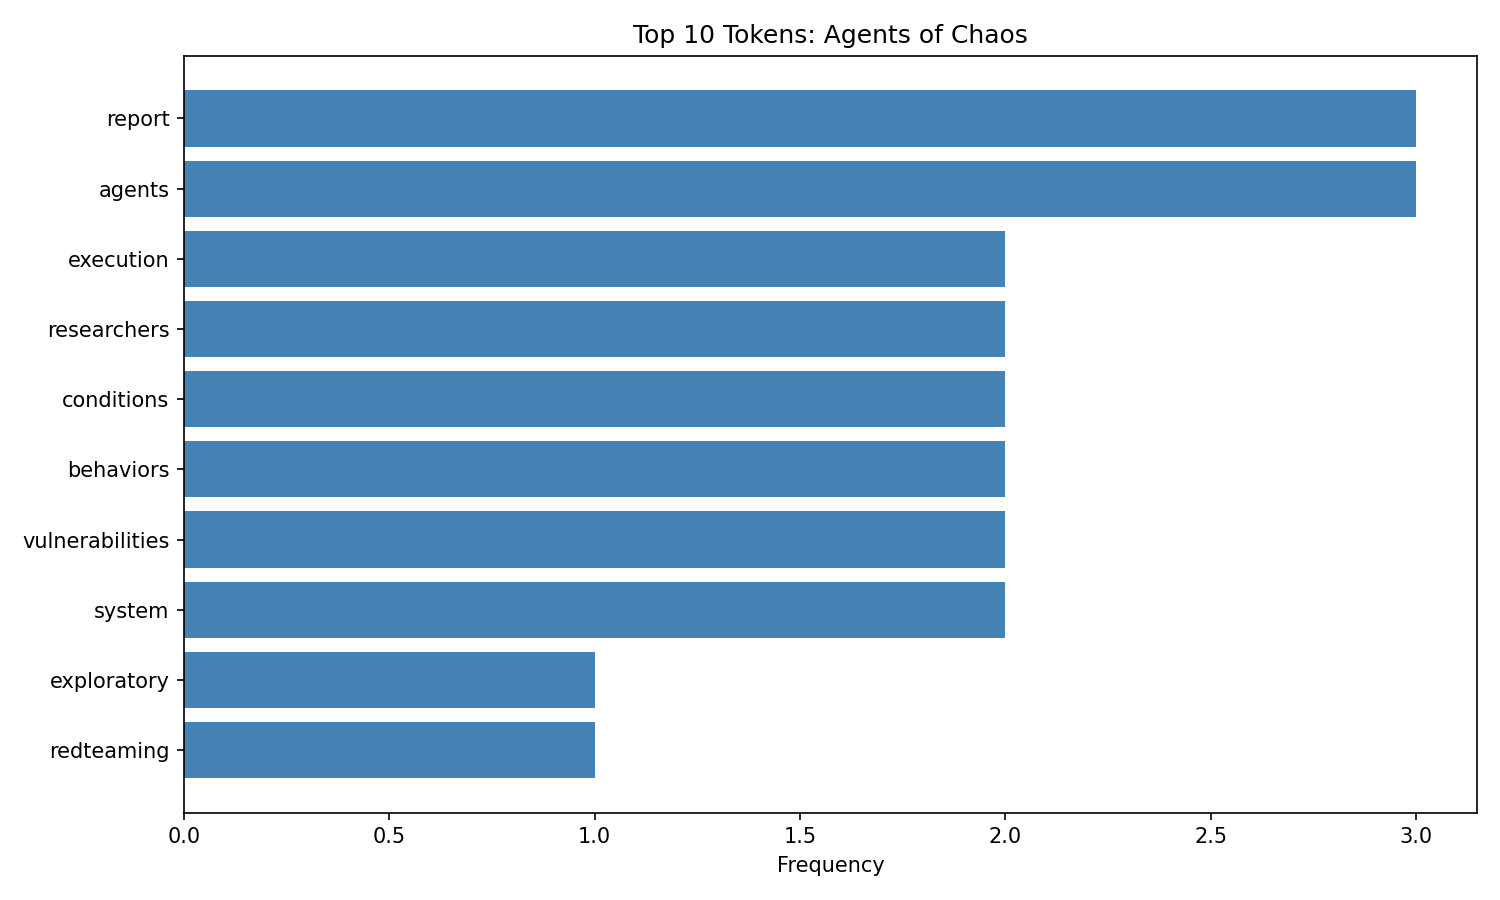
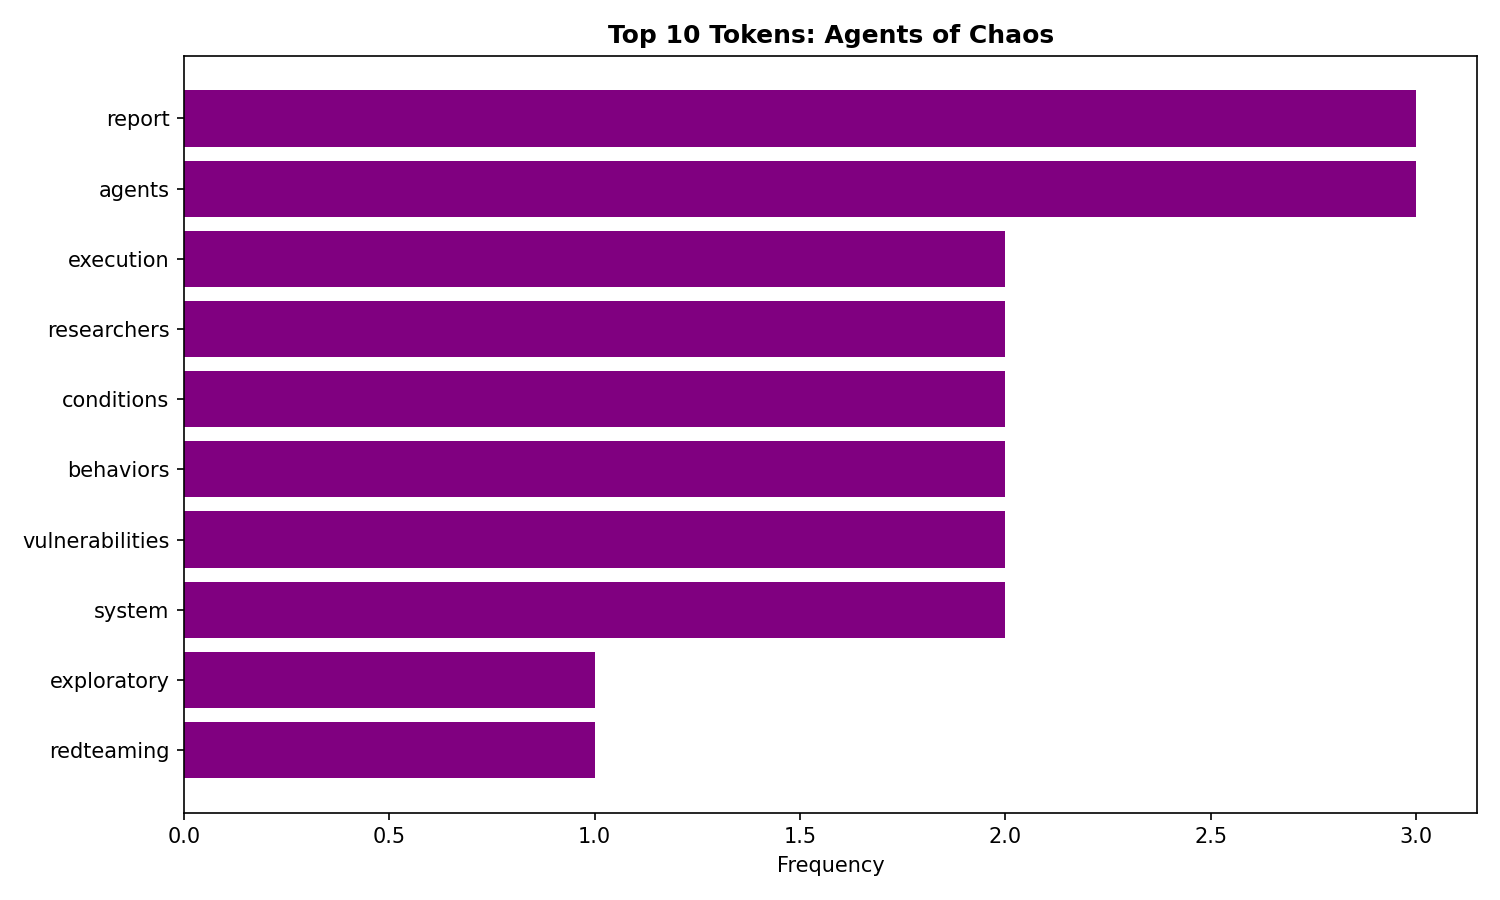
I also updated the bar chart styling by changing the bar color to purple and making the title bold to improve visual clarity and presentation.

diff --git a/src/nlp/stage04_analyze_sowers.py b/src/nlp/stage04_analyze_sowers.py
@@ -118,11 +118,13 @@ def _plot_top_tokens(
     # barh creates a horizontal bar chart.
     # The y-values are the tokens (words),
     # and the x-values are their corresponding counts (frequencies).
-    ax.barh(list(reversed(words)), list(reversed(counts)), color="steelblue")
+    ax.barh(
+        list(reversed(words)), list(reversed(counts)), color="purple"
+    )  # Technical Modification
 
     # Set labels and title
     ax.set_xlabel("Frequency")
-    ax.set_title(title)
+    ax.set_title(title, fontweight="bold")  # Technical Modification
 
     # Adjust layout to prevent clipping of labels and title
     plt.tight_layout()

diff --git a/README.md b/README.md
@@ -440,6 +440,8 @@ of the pipeline.
 
 I modified the Analyze stage by reducing the number of top tokens displayed in the frequency bar chart from 20 to 10.
 
+I also updated the bar chart styling by changing the bar color to purple and making the title bold to improve visual clarity and presentation.
+
 ### Why I made this change
 
 I wanted to make the visualization clearer and more focused on the most important words. Showing fewer tokens reduced clutter and made the results easier to interpret.
